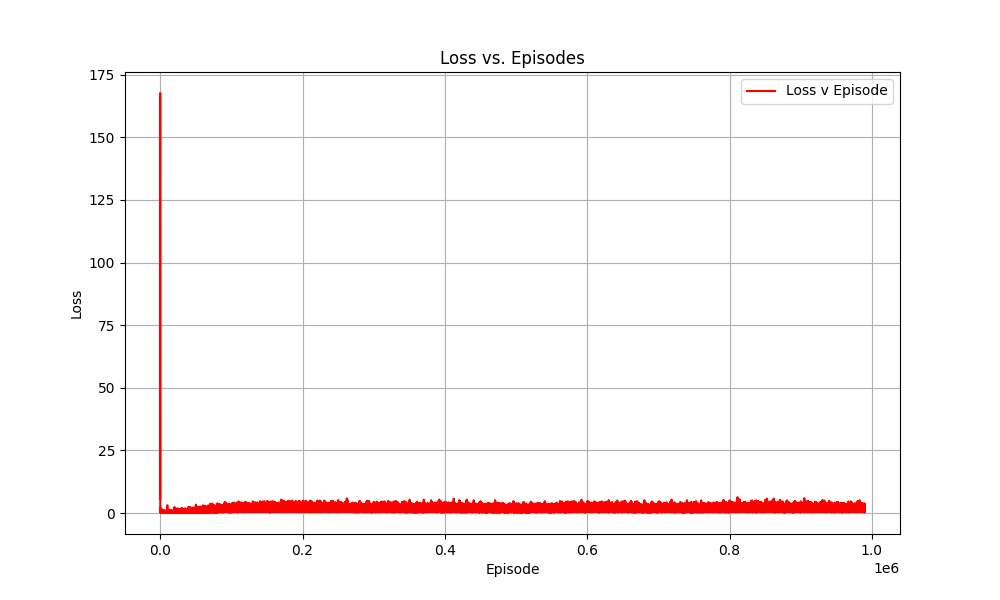
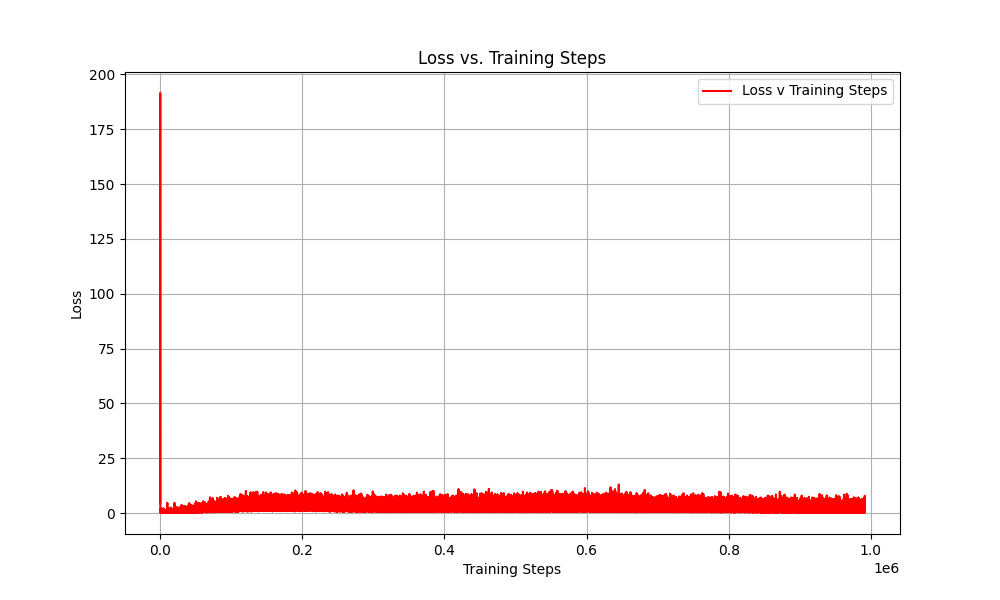
Add result graphs

diff --git a/agent_dqn.py b/agent_dqn.py
@@ -20,7 +20,7 @@ class AgentDQN:
         
         # Set DQN parameters here
         self.learning_rate = .00025
-        self.gamma = .9
+        self.gamma = .95
         self.epsilon_start = 1.0
         self.epsilon = self.epsilon_start
         self.decay = .99999
@@ -198,8 +198,23 @@ class AgentDQN:
                 self.optimizer.step()
 
                 # Decay epsilon
-                self.epsilon = max(self.epsilon_min, self.epsilon - (self.epsilon_start - self.epsilon_min) / self.decay)
+                self.epsilon = max(self.epsilon * self.decay, self.epsilon_min)
             counter += 1
+            if counter % 100000 == 0:
+                # Save a checkpoint
+                checkpoint = {
+                    'online_net': self.online_net.state_dict(),
+                    'target_net': self.target_net.state_dict(),
+                    'optimizer': self.optimizer.state_dict(),
+                    'epsilon': self.epsilon,
+                    'rewards': self.episode_rewards,
+                    'avg_rewards': self.avg_rewards,
+                    'losses': self.losses,
+                    'q_values': self.q_values,
+                    'chart_time': self.time_str
+                }
+                torch.save(checkpoint, self.model_path)
+        print("Model saved to {self.model_path}")
         # plot last graph
         self.plot_rewards(self.episode_rewards, self.avg_rewards, self.time_str)
         self.plot_loss(self.losses, self.time_str)

diff --git a/main.py b/main.py
@@ -17,7 +17,7 @@ import agent_dqn
 import joypad_ppo
 
 TEST_EPISODES = 10 # How many episodes to go through when testing
-MAX_ITER = 15000 # Max iterations when training
+MAX_ITER = 1000000 # Max iterations when training
 MODEL_PATH = './models/'
 VIDEO_PATH = './test_videos/'
 GRAPH_PATH = './graphs/'
